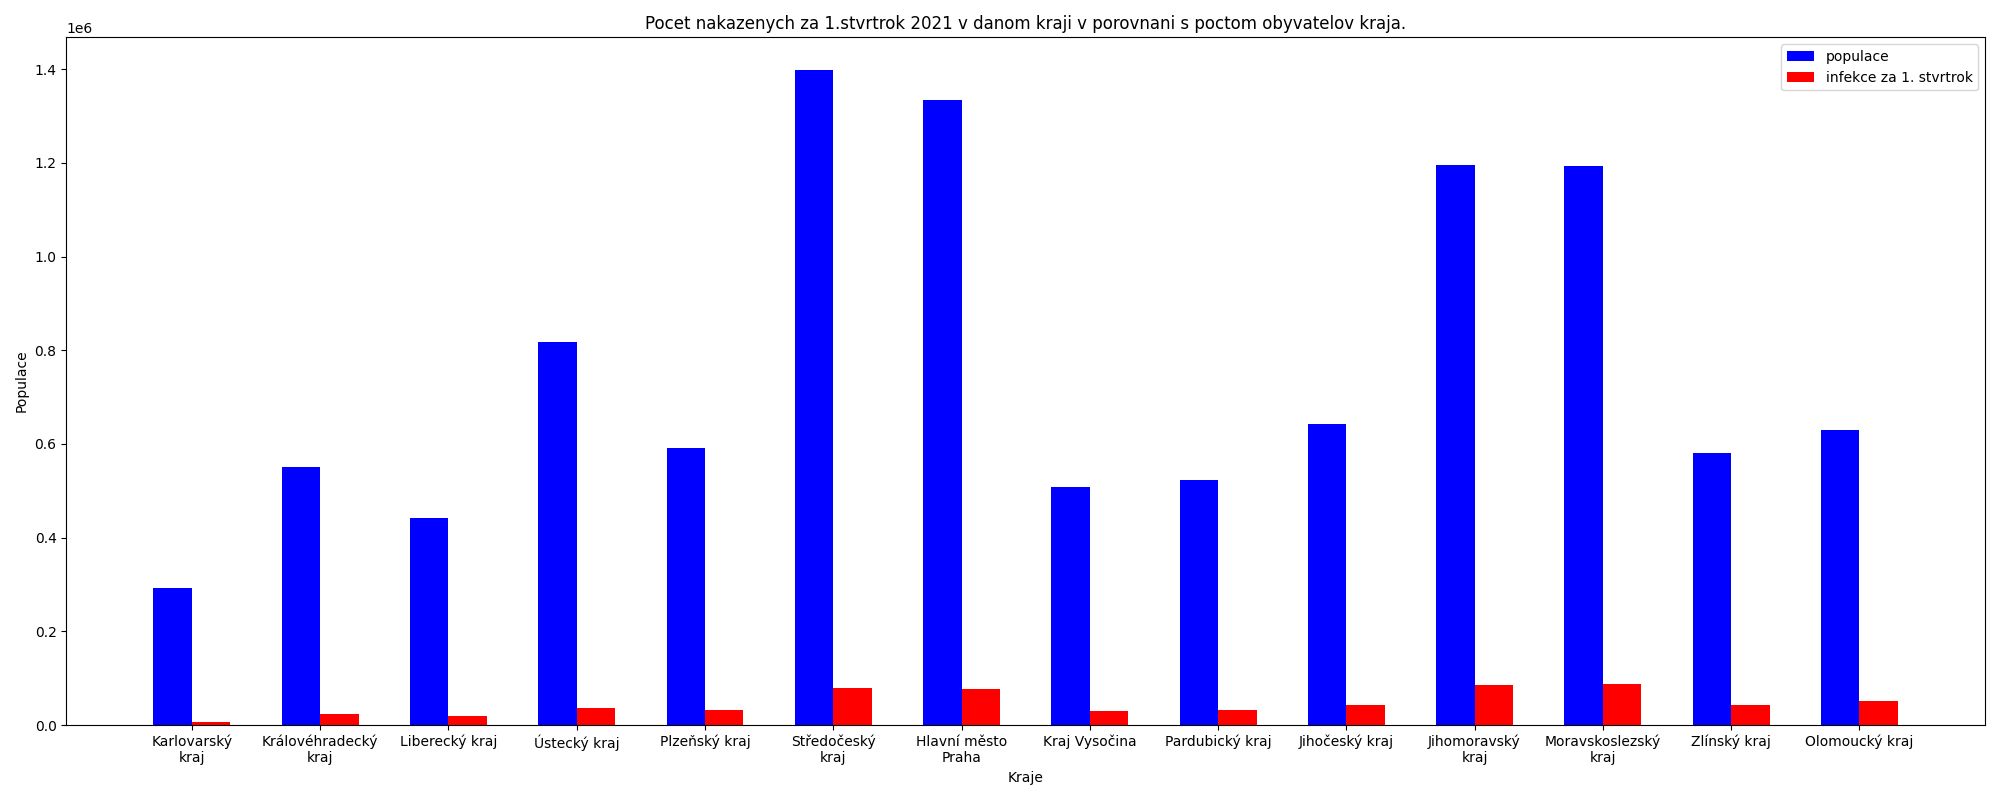
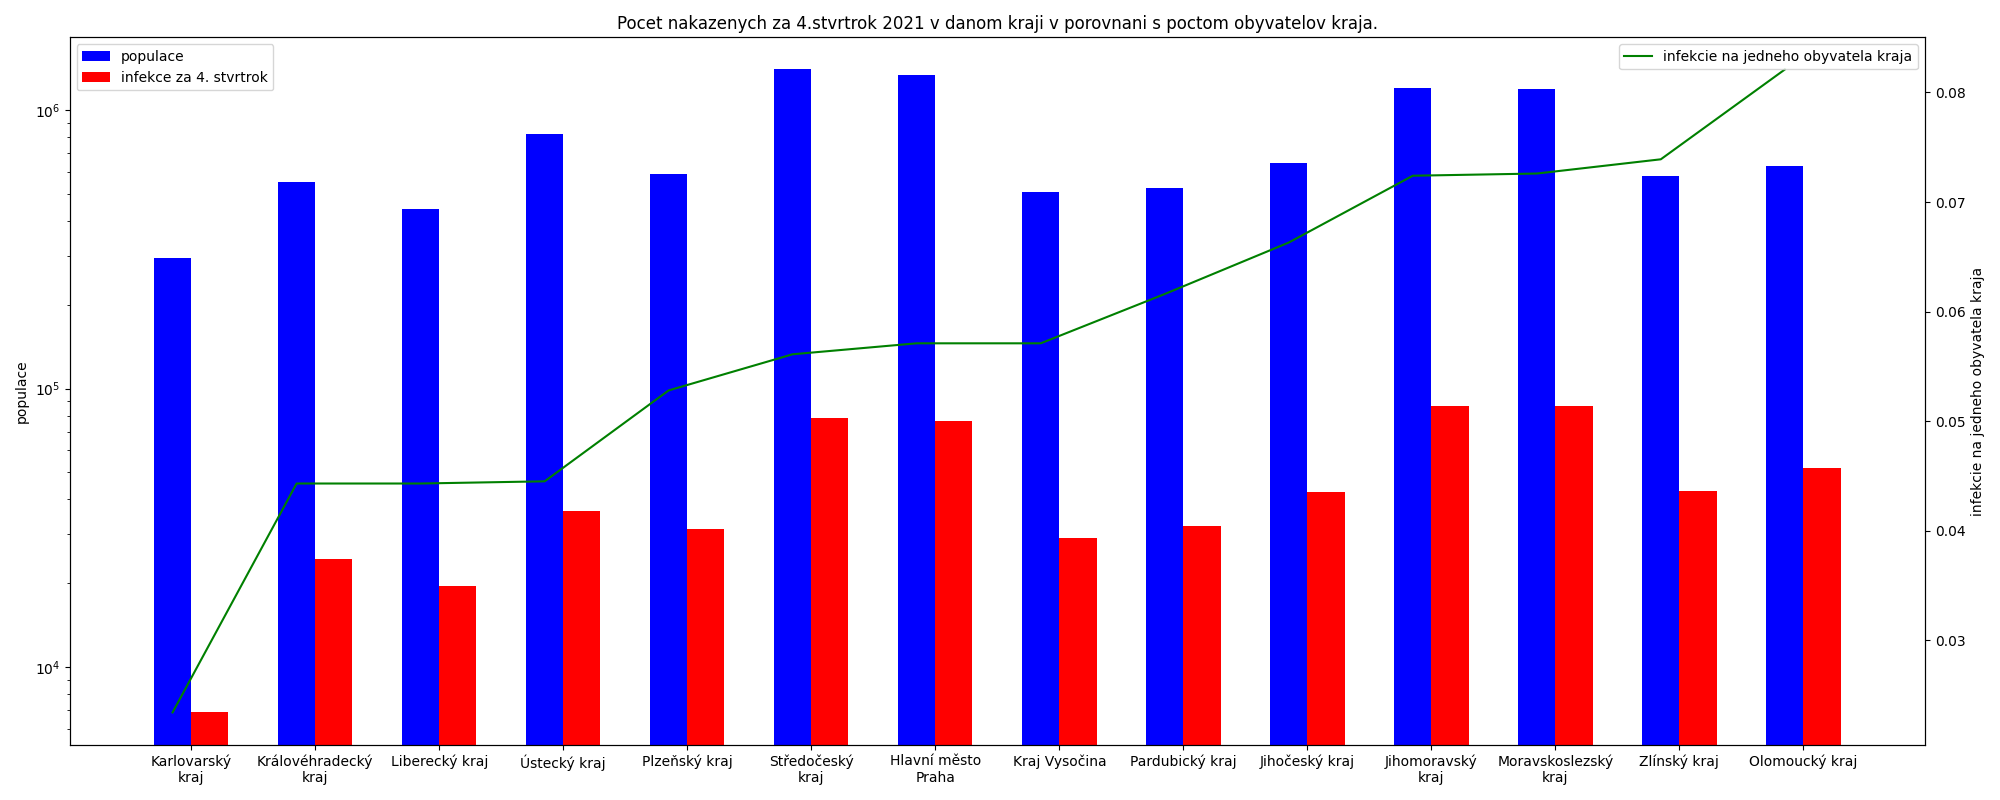
merge queries A and B, added line graph inside bar graph, some fixes

diff --git a/src/mongo/queryB.py b/src/mongo/queryB.py
@@ -76,26 +76,23 @@ def initialize_query_B(db: Database):
                 # get number of infected people in specific region and in specific month
                 obj["infekcie-za-mesiac"] = int(len(osoby.loc[(osoby['datum'].dt.year == year) & (
                     osoby['datum'].dt.month == month) & (osoby['kraj_nuts_kod'] == region)]))
-
-                # obj["ockovanie-za-mesiac"] = int(ockovani.loc[(ockovani['datum'].dt.year == year) & (
-                #     ockovani['datum'].dt.month == month) & (ockovani['kraj_nuts_kod'] == region)].size)
-                # obj["smrti-za-mesiac"] = int(umrti.loc[(ockovani['datum'].dt.year == year) & (
-                #     umrti['datum'].dt.month == month) & (umrti['kraj_nuts_kod'] == region)].size)
+                obj["ockovanie-za-mesiac"] = int(ockovani.loc[(ockovani['datum'].dt.year == year) & (
+                    ockovani['datum'].dt.month == month) & (ockovani['kraj_nuts_kod'] == region)].size)
+                obj["smrti-za-mesiac"] = int(umrti.loc[(ockovani['datum'].dt.year == year) & (
+                    umrti['datum'].dt.month == month) & (umrti['kraj_nuts_kod'] == region)].size)
                 collection.append(obj)
 
     import_collection(db, COLLECTION_NAME, collection)
 
    
-def queryB(csvFileName):
-    filePath = os.path.join('queries_csv',csvFileName)
+def plot_queries_B_ranking():
+    filePath = os.path.join('queries_csv',"kraje_rok_mesiac.csv")
     df = pd.read_csv(filePath)
     osoby = pd.read_csv(os.path.join("data", "osoby.csv"))
     osoby['datum'] = pd.to_datetime(osoby['datum'])
     #filter 2021 year
     df = df.loc[(df['rok'] == 2021)]
     
-
-
     #aggregate months into 1/4 years
     new_df = pd.DataFrame()
     regions = df['kraj'].unique()
@@ -109,8 +106,7 @@ def queryB(csvFileName):
     #compute infection per one person
     new_df['pocet_nakazenych_na_obyvatela'] = round(new_df['infekcie-za-mesiac']/(new_df['kraj_populace'] ),4)
    
-
-    #filter each quarter year and sort values
+    #filter each quarter year and sort values and plot rankinkgs for each quarter-year
     ranking4 = None
     quarter_year = 1
     for i in range(1,5):
@@ -124,7 +120,7 @@ def queryB(csvFileName):
         plotRanking(ranking,i)
 
 
-    # Bar Plot
+    # ranking 4 graph
     kraje = list(ranking4['kraj'].values) 
     x_indexes = np.arange(len(kraje))
     infections = list(ranking4['infekcie-za-4-stvrtrok'].values) 
@@ -132,49 +128,36 @@ def queryB(csvFileName):
     per_infections = list(ranking4['pocet_nakazenych_na_obyvatela'].values) 
     barWidth=0.3
 
-    
-    fig, ax = plt.subplots(figsize=(18, 7)) # set size frame
-    plt.plot(x_indexes , per_infections, color="grey", label="per-infections")
+    fig, ax = plt.subplots(figsize=(20, 8))
+    plt.yscale('log')
+    ax2 = ax.twinx()
+    ax2.plot(x_indexes, per_infections, 'g-', label='infekcie na jedneho obyvatela kraja')
+    ax.bar(x_indexes , populace, color="blue", width=barWidth, label="populace")
+    ax.bar(x_indexes + barWidth , infections, color="red", width=barWidth, label="infekce za 4. stvrtrok")
+    ax.set_ylabel('populace')
+    ax2.set_ylabel('infekcie na jedneho obyvatela kraja')
     ax.set_xticks(x_indexes + barWidth / 2)
     kraje = [ '\n'.join(wrap(l, 15)) for l in kraje ]
     ax.set_xticklabels(kraje)
-    plt.title("Pocet nakazenych na jedneho obyvatela za 4.stvrtrok 2021 v danom kraji.")
+
+    ax.legend(loc='upper left')
+    ax2.legend()
+    plt.title("Pocet nakazenych za 4.stvrtrok 2021 v danom kraji v porovnani s poctom obyvatelov kraja.")
     plt.xlabel("Kraje")
-    plt.ylabel("Pocet nakazenych na jedneho obyvatela")
-    filePath = os.path.join('img','line-4-stvrtrok.png')
-    plt.savefig(filePath, transparent=True,facecolor=fig.get_facecolor(), edgecolor='none')
-
-
-    fig, ax = plt.subplots(figsize=(20, 8)) # set size frame
-    # ts = ranking4['pocet_nakazenych_na_obyvatela']
-    # ts = ts.cumsum()
-    # ts.plot()
-
-
-    plt.bar(x_indexes , populace, color="blue", width=barWidth, label="populace")
-    plt.bar(x_indexes + barWidth , infections, color="red", width=barWidth, label="infekce za 1. stvrtrok")
-    
-    ax.set_xticks(x_indexes + barWidth / 2)
-    kraje = [ '\n'.join(wrap(l, 15)) for l in kraje ]
-    ax.set_xticklabels(kraje)
-    plt.legend()
-    plt.title("Pocet nakazenych za 1.stvrtrok 2021 v danom kraji v porovnani s poctom obyvatelov kraja.")
-    plt.xlabel("Kraje")
-    plt.ylabel("Populace")
     plt.tight_layout()
     filePath = os.path.join('img','graf-4-stvrtrok.png')
     plt.savefig(filePath, transparent=True,facecolor=fig.get_facecolor(), edgecolor='none')
 
 def plotRanking(ranking,n):
-    fig, ax = plt.subplots(figsize=(20, 5)) # set size frame
+    fig, ax = plt.subplots(figsize=(20, 5)) 
     fig.suptitle(str(n) +'. stvrtrok', fontsize=20)
-    ax.xaxis.set_visible(False)  # hide the x axis
-    ax.yaxis.set_visible(False)  # hide the y axis
-    ax.set_frame_on(False)  # no visible frame, uncomment if size is ok
+    ax.xaxis.set_visible(False)  
+    ax.yaxis.set_visible(False)  
+    ax.set_frame_on(False)  
     tabla = table(ax, ranking, loc='upper right', colWidths=[0.18]*len(ranking.columns))  # where df is your data frame
-    tabla.auto_set_font_size(False) # Activate set fontsize manually
-    tabla.set_fontsize(12) # if ++fontsize is necessary ++colWidths
-    tabla.scale(1.5, 1.5) # change size table
+    tabla.auto_set_font_size(False) 
+    tabla.set_fontsize(12) 
+    tabla.scale(1.5, 1.5) 
     filePath = os.path.join('img','rebricek-'+ str(n) +'-stvrtrok.png')
     plt.savefig(filePath, transparent=True,facecolor=fig.get_facecolor(), edgecolor='none')
 

diff --git a/src/plot.py b/src/plot.py
@@ -1,5 +1,5 @@
 from mongo.queryA import plot_queries_A_boxplot, plot_queries_A_vaccinations_1, plot_queries_A_vaccinations_2, plot_queries_A_vaccinations_3
-
+from mongo.queryB import plot_queries_B_ranking
 
 def main():
     print("Plotting graphs from section A")
@@ -7,7 +7,8 @@ def main():
     plot_queries_A_vaccinations_1()
     plot_queries_A_vaccinations_2()
     plot_queries_A_vaccinations_3()
-
+    print("Plotting graphs from section B")
+    plot_queries_B_ranking()
 
 if __name__ == "__main__":
     main()

diff --git a/src/extract.py b/src/extract.py
@@ -1,5 +1,6 @@
 from mongo.mongo import initialize_mongo
 from mongo.queryA import export_A_csvs
+from csv_extractor.csvExtractor import convert_collection_to_csv
 
 
 def main():
@@ -9,8 +10,7 @@ def main():
 
     print("Extracting CSVs")
     export_A_csvs(db)
-    # todo add CSVs for section B
-
+    convert_collection_to_csv("kraje_rok_mesiac",db)
     print("Export was succesfull, continue plotting with \"make plot\".")
 
 

diff --git a/src/main.py b/src/main.py
@@ -5,8 +5,7 @@ from download.constants import CITIZEN_FILE_NAME
 from download.download import download
 from mongo.mongo import initialize_mongo, import_csv_data
 from mongo.queryA import initialize_query_A
-from mongo.queryB import initialize_query_B, queryB
-from csv_extractor.csvExtractor import convert_collection_to_csv
+from mongo.queryB import initialize_query_B
 import os
 
 
